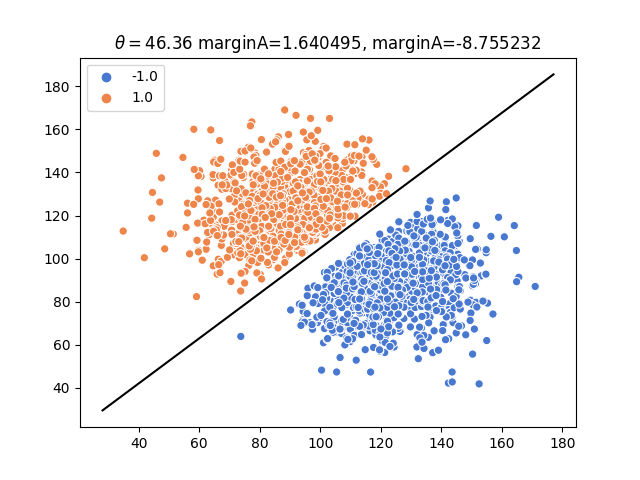
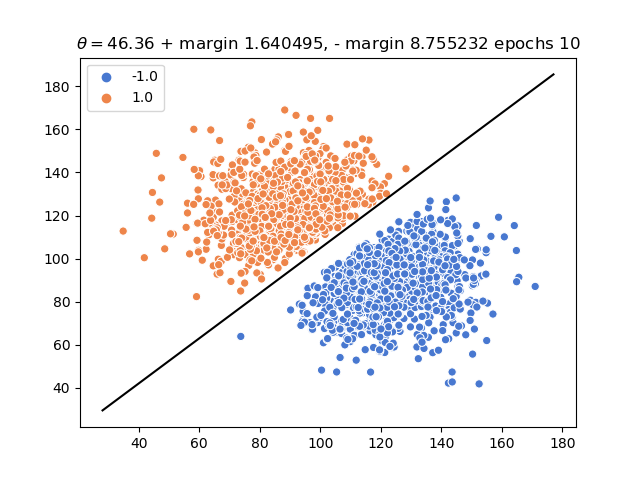
adjust perceptron

Changed region(s): [[0.125, 0.0625, 0.9062, 0.125]]

diff --git a/perceptron.py b/perceptron.py
@@ -25,6 +25,7 @@ class Perceptron:
         self._errors = []
         self.learning_rate = learning_rate
         self.epochs = epochs
+        self.updates = 0
 
     def fit(self, X, Y):
         """
@@ -37,12 +38,18 @@ class Perceptron:
         # + 1 because we want to also have a free term (bias) that is not influenced by the training values necessarily.
         self._weights = np.zeros(1 + X.shape[1])
 
-        for _ in range(self.epochs):
+        Y = [0 if y == -1 else 1 for y in Y]
 
+        self.epochs = 0
+        fitted = False
+        while not fitted:
             errors = 0
+            self.epochs += 1
             # We now parse the training data set
             for entry, target in zip(X, Y):
                 classification_error = target - self.predict(entry)
+                if classification_error:
+                    self.updates += 1
 
                 # we compute now with how much we should adjust the weights
                 weights_update = self.learning_rate * classification_error
@@ -53,10 +60,11 @@ class Perceptron:
 
                 errors += np.where(classification_error == 0, 0, 1)
 
+            fitted = errors == 0
             self._errors.append(errors)
 
         return self._weights
 
     def predict(self, entry):
         # compute the predicted value
-        return np.where(np.dot(entry, self._weights[1:]) + self._weights[0] >= 0.0, 1, -1)
+        return np.where(np.dot(entry, self._weights[1:]) + self._weights[0] >= 0.0, 1, 0)

diff --git a/main.py b/main.py
@@ -1,4 +1,4 @@
-from perceptron import Perceptron, plot_decision_regions
+from perceptron import Perceptron
 from svm import fit
 from utils import *
 
@@ -22,7 +22,8 @@ if __name__ == "__main__":
     w = weights[1:]
 
     plot_separator(w, bias)
-    plot_perceptron_margin(x, w)
+    plot_perceptron_margin(x, w, perceptron.updates)
+    print(f"No support vectors: {sum(np.where(support_vectors == True, 1, 0))}")
 
     save_plot("perceptron-separator-p1-a", "png")
     plt.clf()
@@ -34,6 +35,7 @@ if __name__ == "__main__":
     plot_separator(w, bias)
     plot_svm_margin(w)
     plot_support_vectors(x, support_vectors)
+    print(f"No support vectors: {sum(np.where(support_vectors == True, 1, 0))}")
 
     save_plot("svm-separator-p1-b", "png")
     plt.clf()
@@ -46,7 +48,7 @@ if __name__ == "__main__":
     w = weights[1:]
 
     plot_separator(w, bias)
-    plot_perceptron_margin(x, w)
+    plot_perceptron_margin(x, w, perceptron.updates)
 
     save_plot("perceptron-separator-p1-b", "png")
     plt.clf()

diff --git a/svm.py b/svm.py
@@ -1,25 +1,41 @@
 import numpy as np
 from cvxopt import matrix, solvers
-import seaborn as sns
 
 
 def fit(x, y):
     NUM = x.shape[0]
 
+    # compute identity kernel
     K = y[:, None] * x
     K = np.dot(K, K.T)
     P = matrix(K)
+
+    # 1 * ||a_i||
     q = matrix(-np.ones((NUM, 1)))
+    # -a_i <= h
     G = matrix(-np.eye(NUM))
+
+    # = 0
     h = matrix(np.zeros(NUM))
+
+    # a_i * y_i
     A = matrix(y.reshape(1, -1))
+
+    # = 0
     b = matrix(np.zeros(1))
     solvers.options['show_progress'] = False
+
+    # solve
     sol = solvers.qp(P, q, G, h, A, b)
     alphas = np.array(sol['x'])
 
+    # go into primal form a_i * y_i * x_i
     w = np.sum(alphas * y[:, None] * x, axis=0)
+
+    # support vectors are the ones that have alpha > 0
     support_vectors = (alphas > 1e-4).reshape(-1)
+
+    #compute b as a mean of all the equations for support vectors
     b = y[support_vectors] - np.dot(x[support_vectors], w)
     bias = np.mean(b)
 

diff --git a/utils.py b/utils.py
@@ -51,15 +51,15 @@ def plot_svm_margin(w):
     plt.title(rf"{title} margin={margin:2f}")
 
 
-def plot_perceptron_margin(x, w):
+def plot_perceptron_margin(x, w, epochs):
     distances = [np.dot(entry, w) / np.linalg.norm(w) for entry in x]
 
-    min_positive_distance = min([d for d in distances if d > 0])
-    max_negative_distance = max([d for d in distances if d < 0])
+    min_positive_distance = abs(min([d for d in distances if d > 0]))
+    max_negative_distance = abs(max([d for d in distances if d < 0]))
 
     title = plt.axes().get_title()
 
-    plt.title(rf"{title} marginA={min_positive_distance:2f}, marginA={max_negative_distance:2f}")
+    plt.title(rf"{title} + margin {min_positive_distance:2f}, - margin {max_negative_distance:2f} epochs {epochs}")
 
 
 def plot_support_vectors(x, support_vectors):
